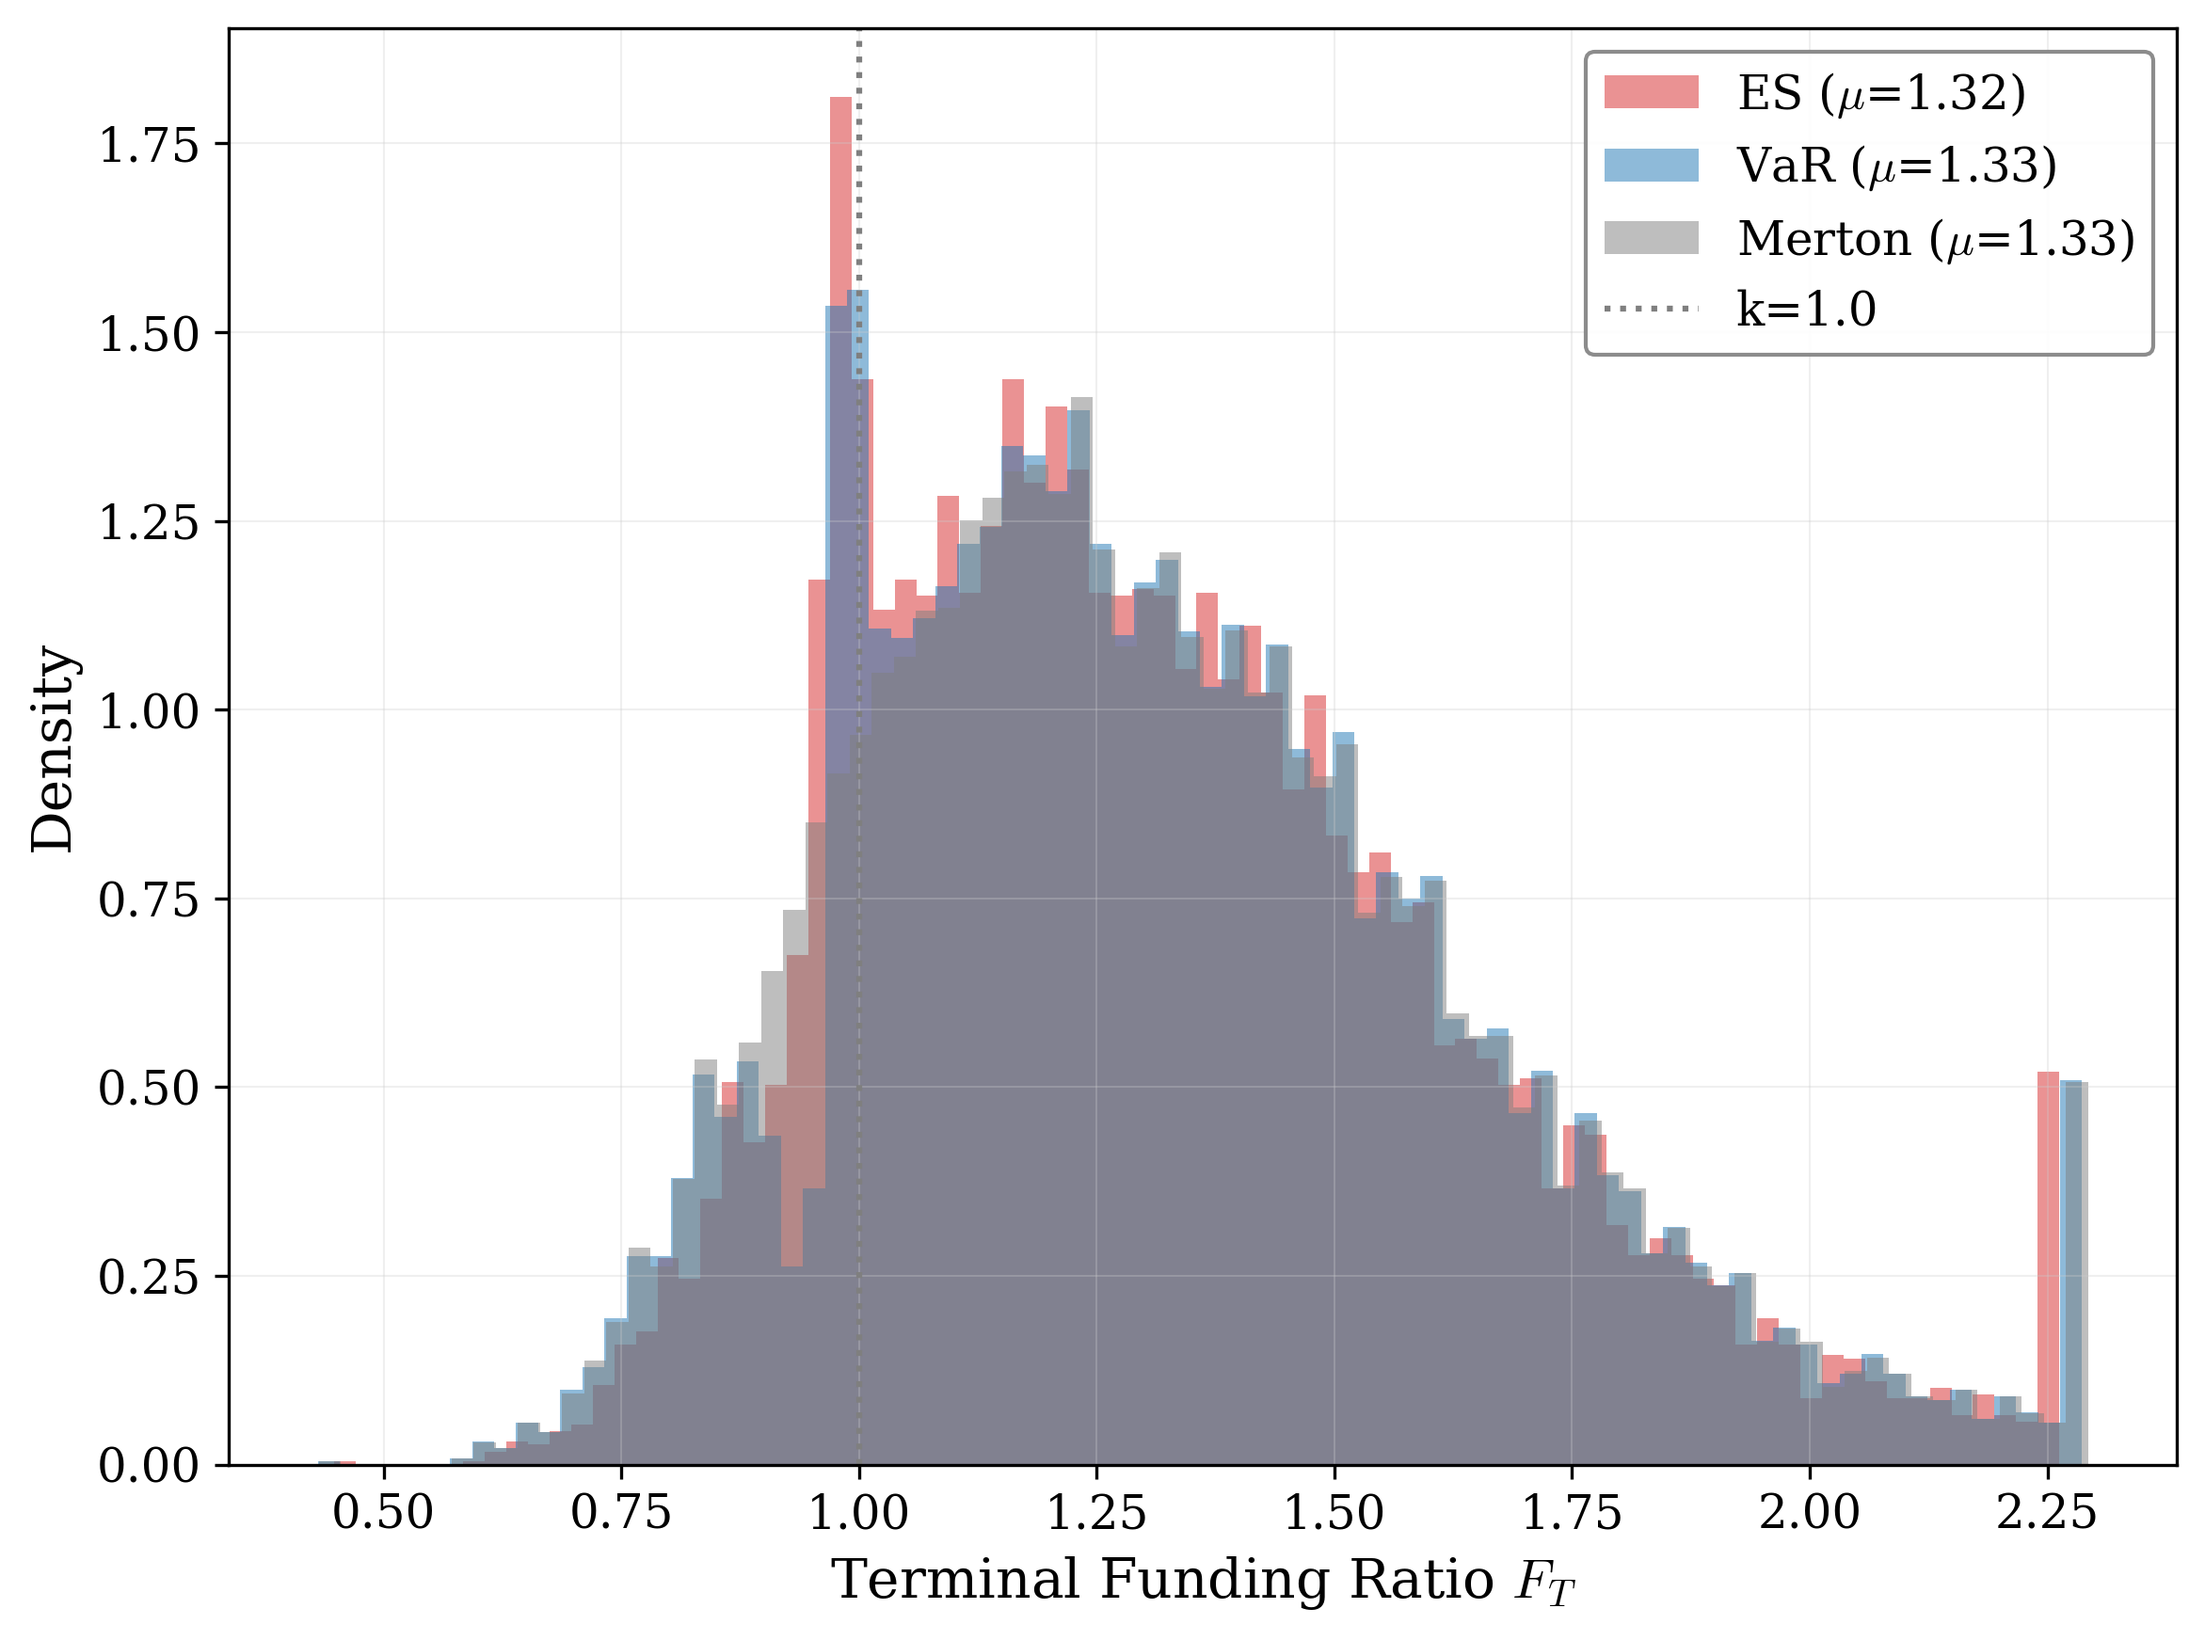
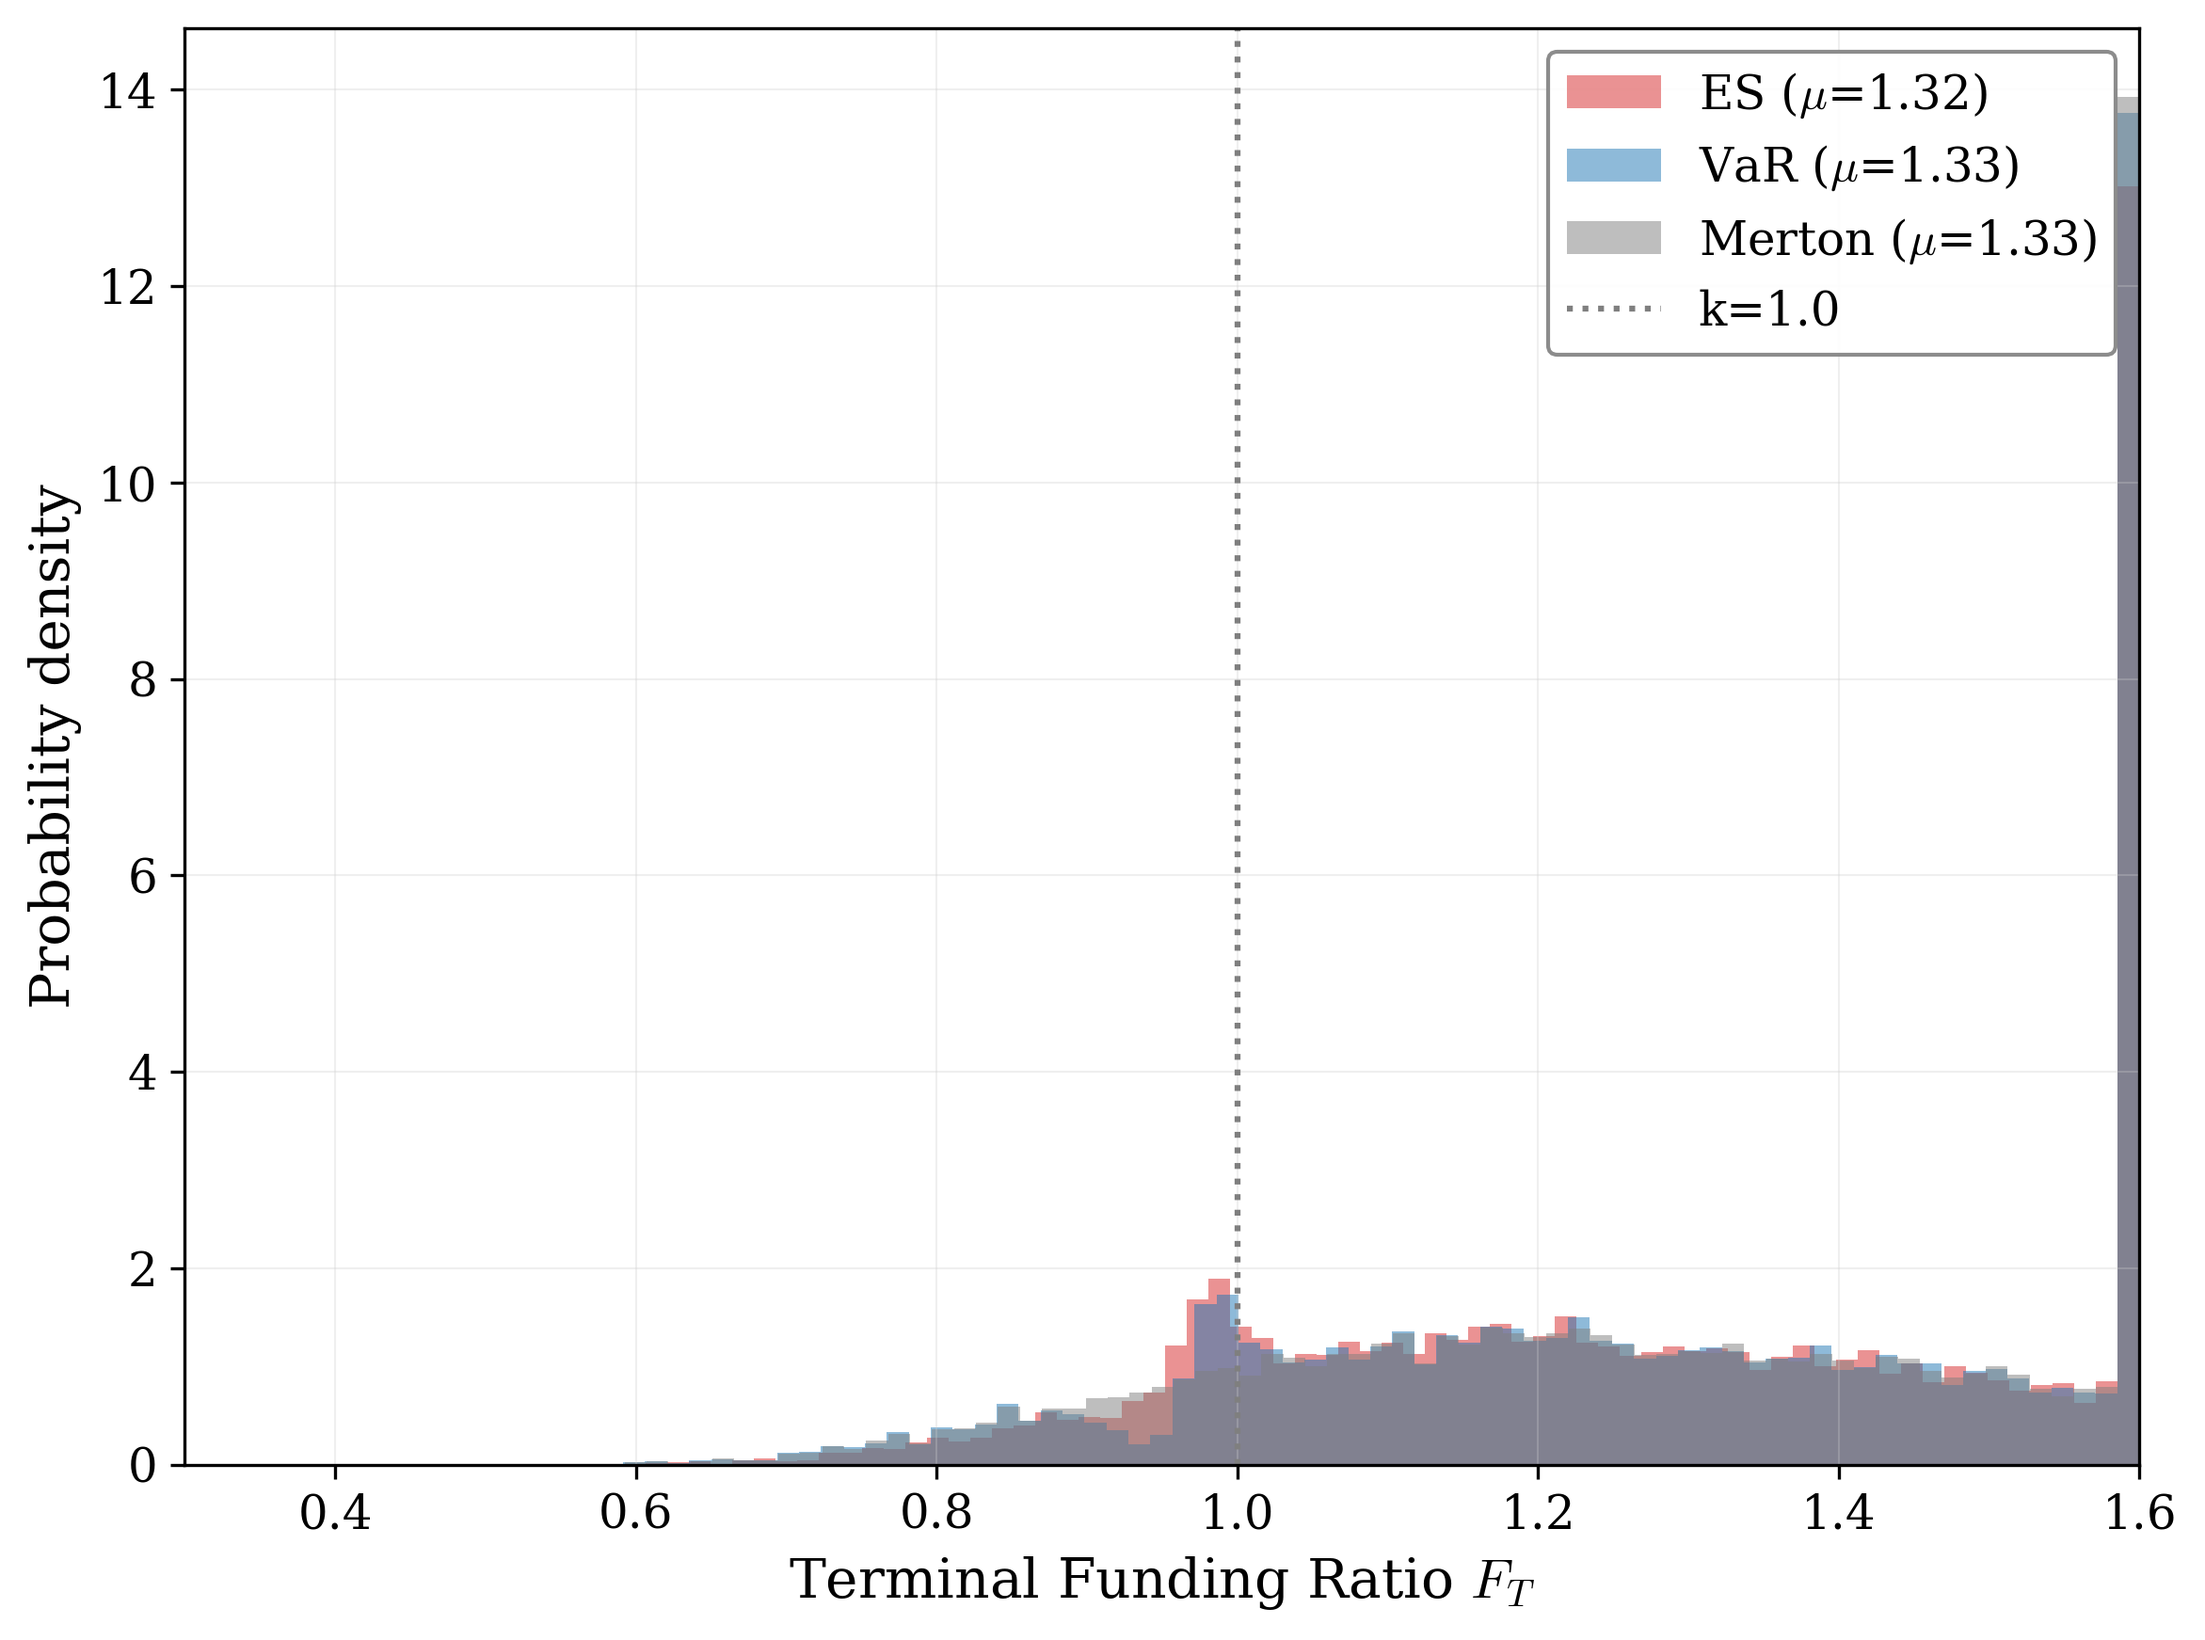
mc_terminal 그림 수정: x축 [0.3, 1.6] clip, y축 Probability density
https://claude.ai/code/session_01E9AbtNBUX5weQS1WjorM56

diff --git a/scripts/run_monte_carlo.py b/scripts/run_monte_carlo.py
@@ -98,13 +98,14 @@ def run_scenario(y0, tag=""):
     for model in MODELS:
         Y_T = results[model]['paths'][:, -1]
         # Clip for histogram visibility
-        Y_T_clip = np.clip(Y_T, 0, np.quantile(Y_T, 0.99))
+        Y_T_clip = np.clip(Y_T, 0.3, 1.6)
         ax.hist(Y_T_clip, bins=80, alpha=HIST_ALPHA, color=MC_COLORS[model],
                 label=f"{LABELS[model]} ($\\mu$={results[model]['tstats']['mean']:.2f})",
                 density=True)
     ax.axvline(P.k, **MERTON_LINE, label=f'k={P.k}')
     ax.set_xlabel('Terminal Funding Ratio $F_T$')
-    ax.set_ylabel('Density')
+    ax.set_ylabel('Probability density')
+    ax.set_xlim(0.3, 1.6)
     ax.set_title(f'Terminal Distribution ($F_0$={y0}, $T$={P.T:.0f})')
     ax.legend(**LEGEND)
     setup_grid(ax)

diff --git a/scripts/generate_paper_figures.py b/scripts/generate_paper_figures.py
@@ -703,13 +703,14 @@ def run_mc_scenario(y0):
     fig, ax = plt.subplots(figsize=FIGSIZES['single'])
     for model in MODELS:
         Y_T = results[model]['paths'][:, -1]
-        Y_T_clip = np.clip(Y_T, 0, np.quantile(Y_T, 0.99))
+        Y_T_clip = np.clip(Y_T, 0.3, 1.6)
         ax.hist(Y_T_clip, bins=80, alpha=HIST_ALPHA, color=MC_COLORS[model],
                 label=f"{LABELS[model]} ($\\mu$={results[model]['tstats']['mean']:.2f})",
                 density=True)
     ax.axvline(P.k, **MERTON_REF, label=f'k={P.k}')
     ax.set_xlabel('Terminal Funding Ratio $F_T$')
-    ax.set_ylabel('Density')
+    ax.set_ylabel('Probability density')
+    ax.set_xlim(0.3, 1.6)
     ax.legend(**LEGEND)
     paper_grid(ax)
     fig.tight_layout()
